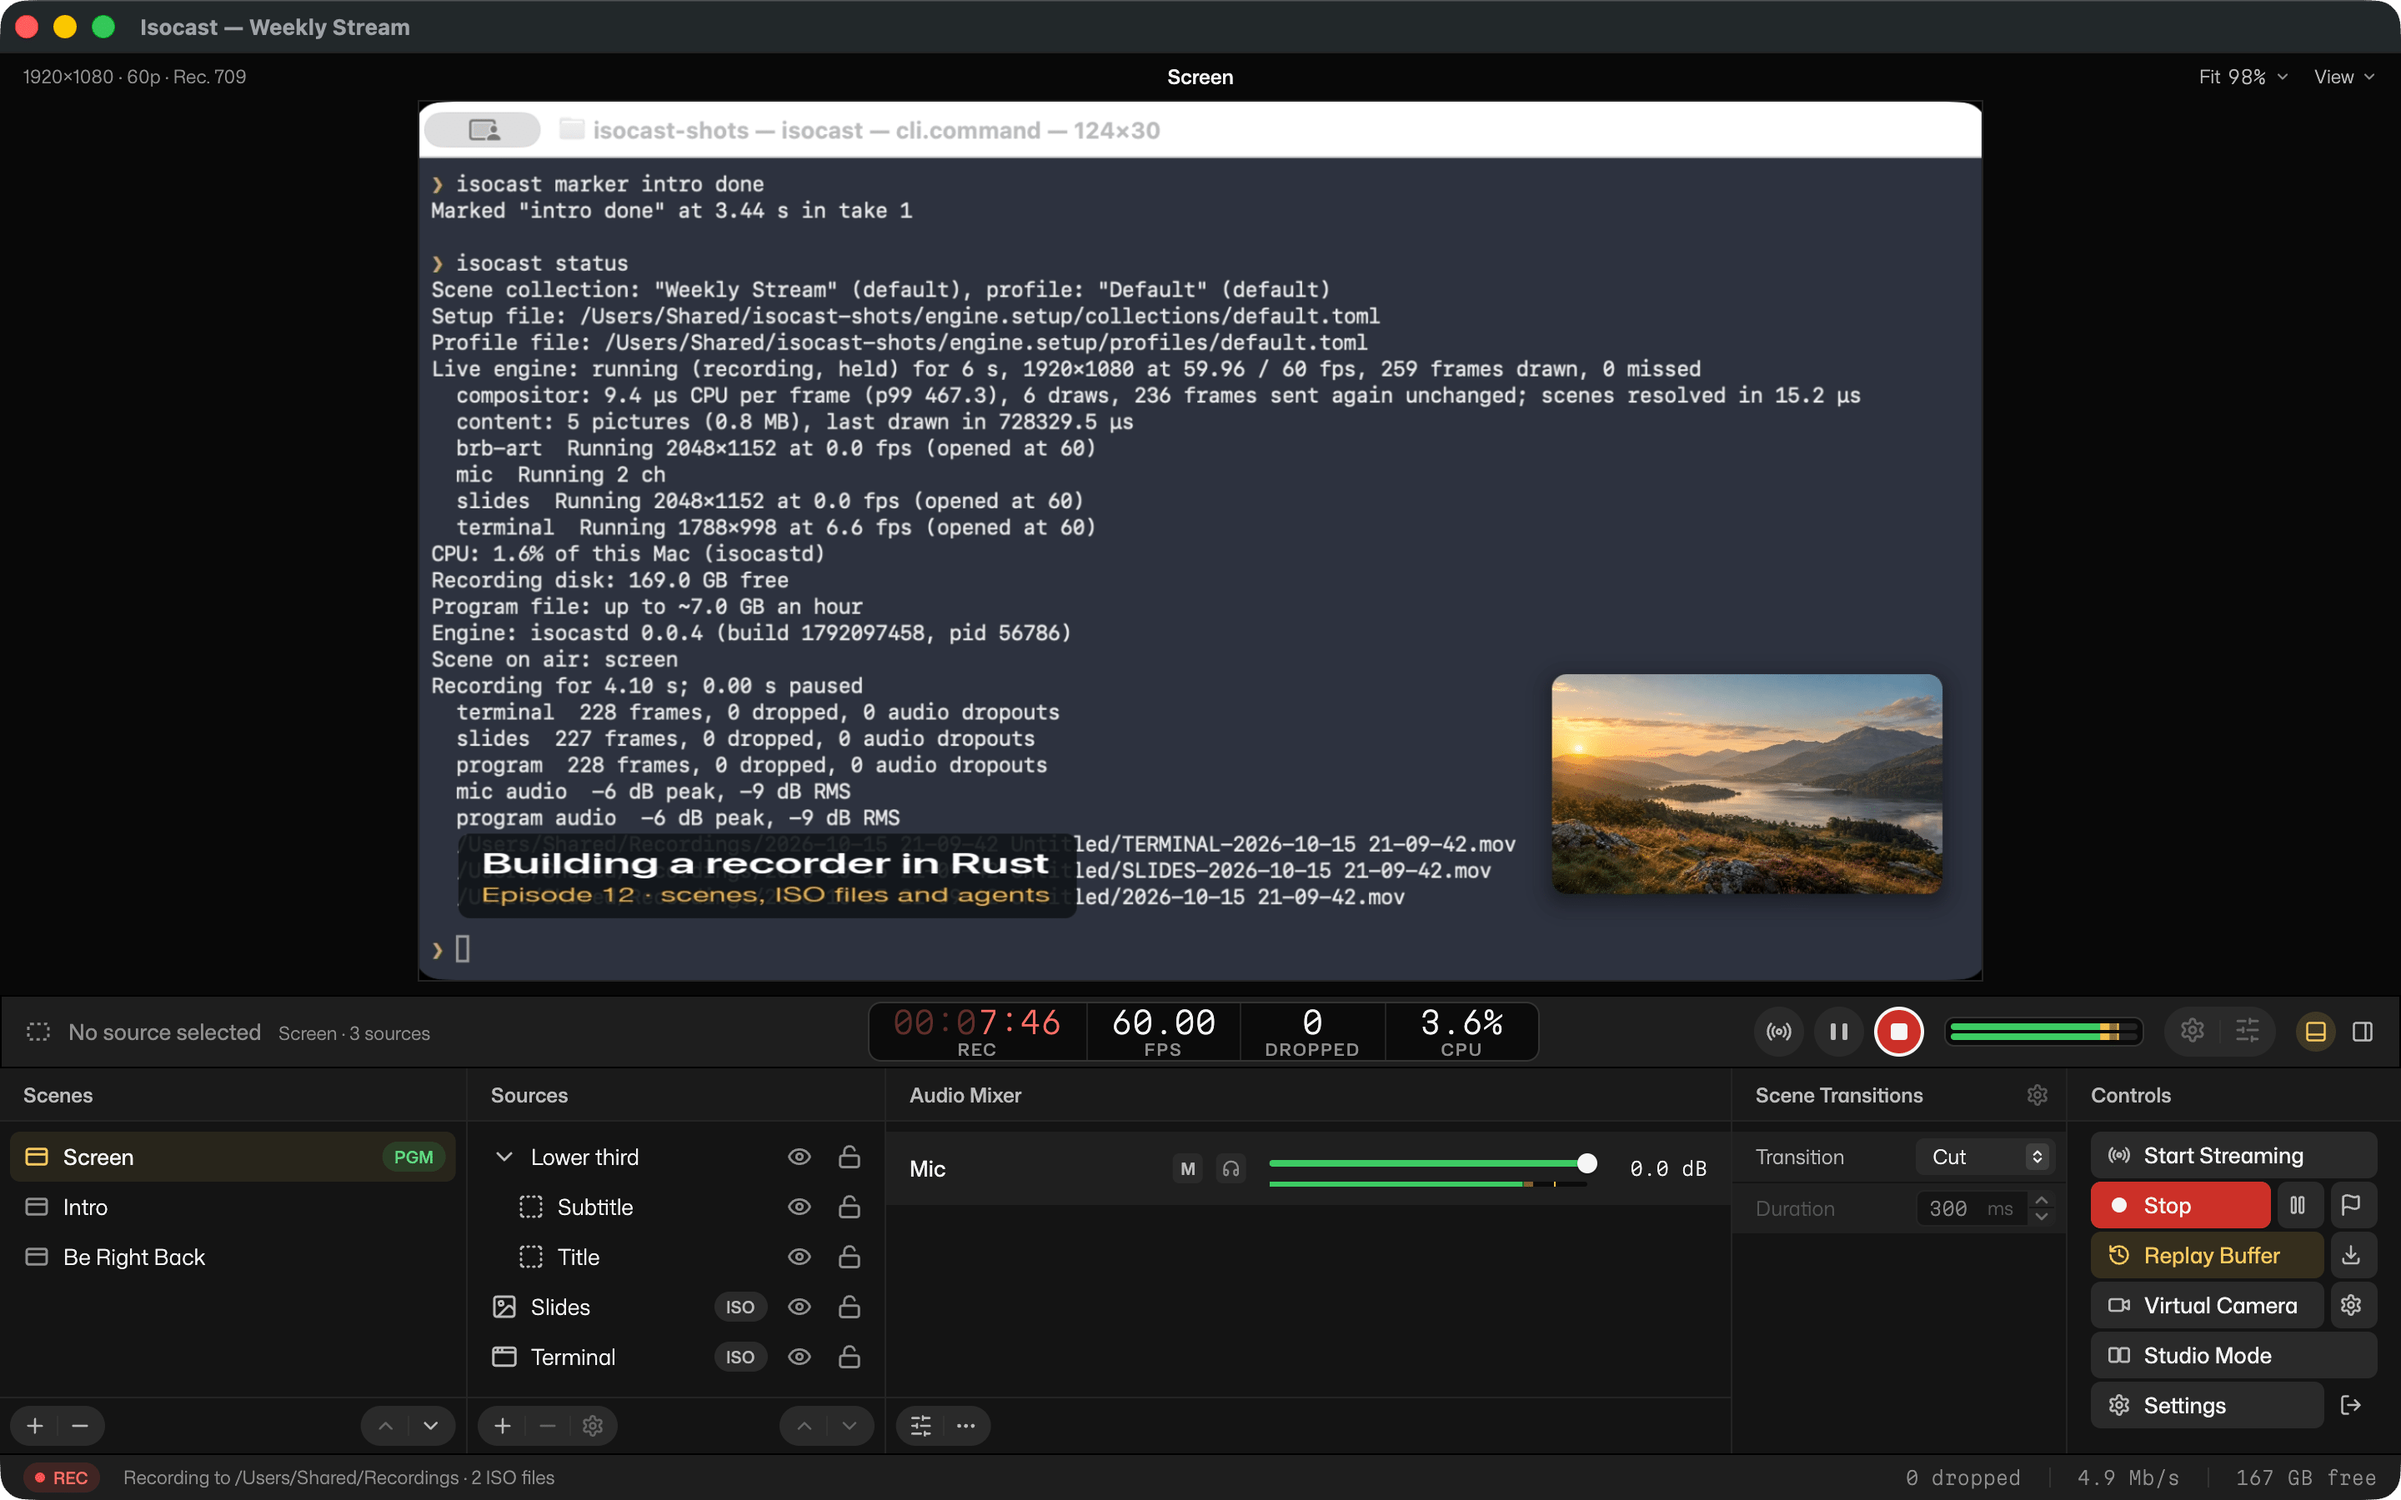
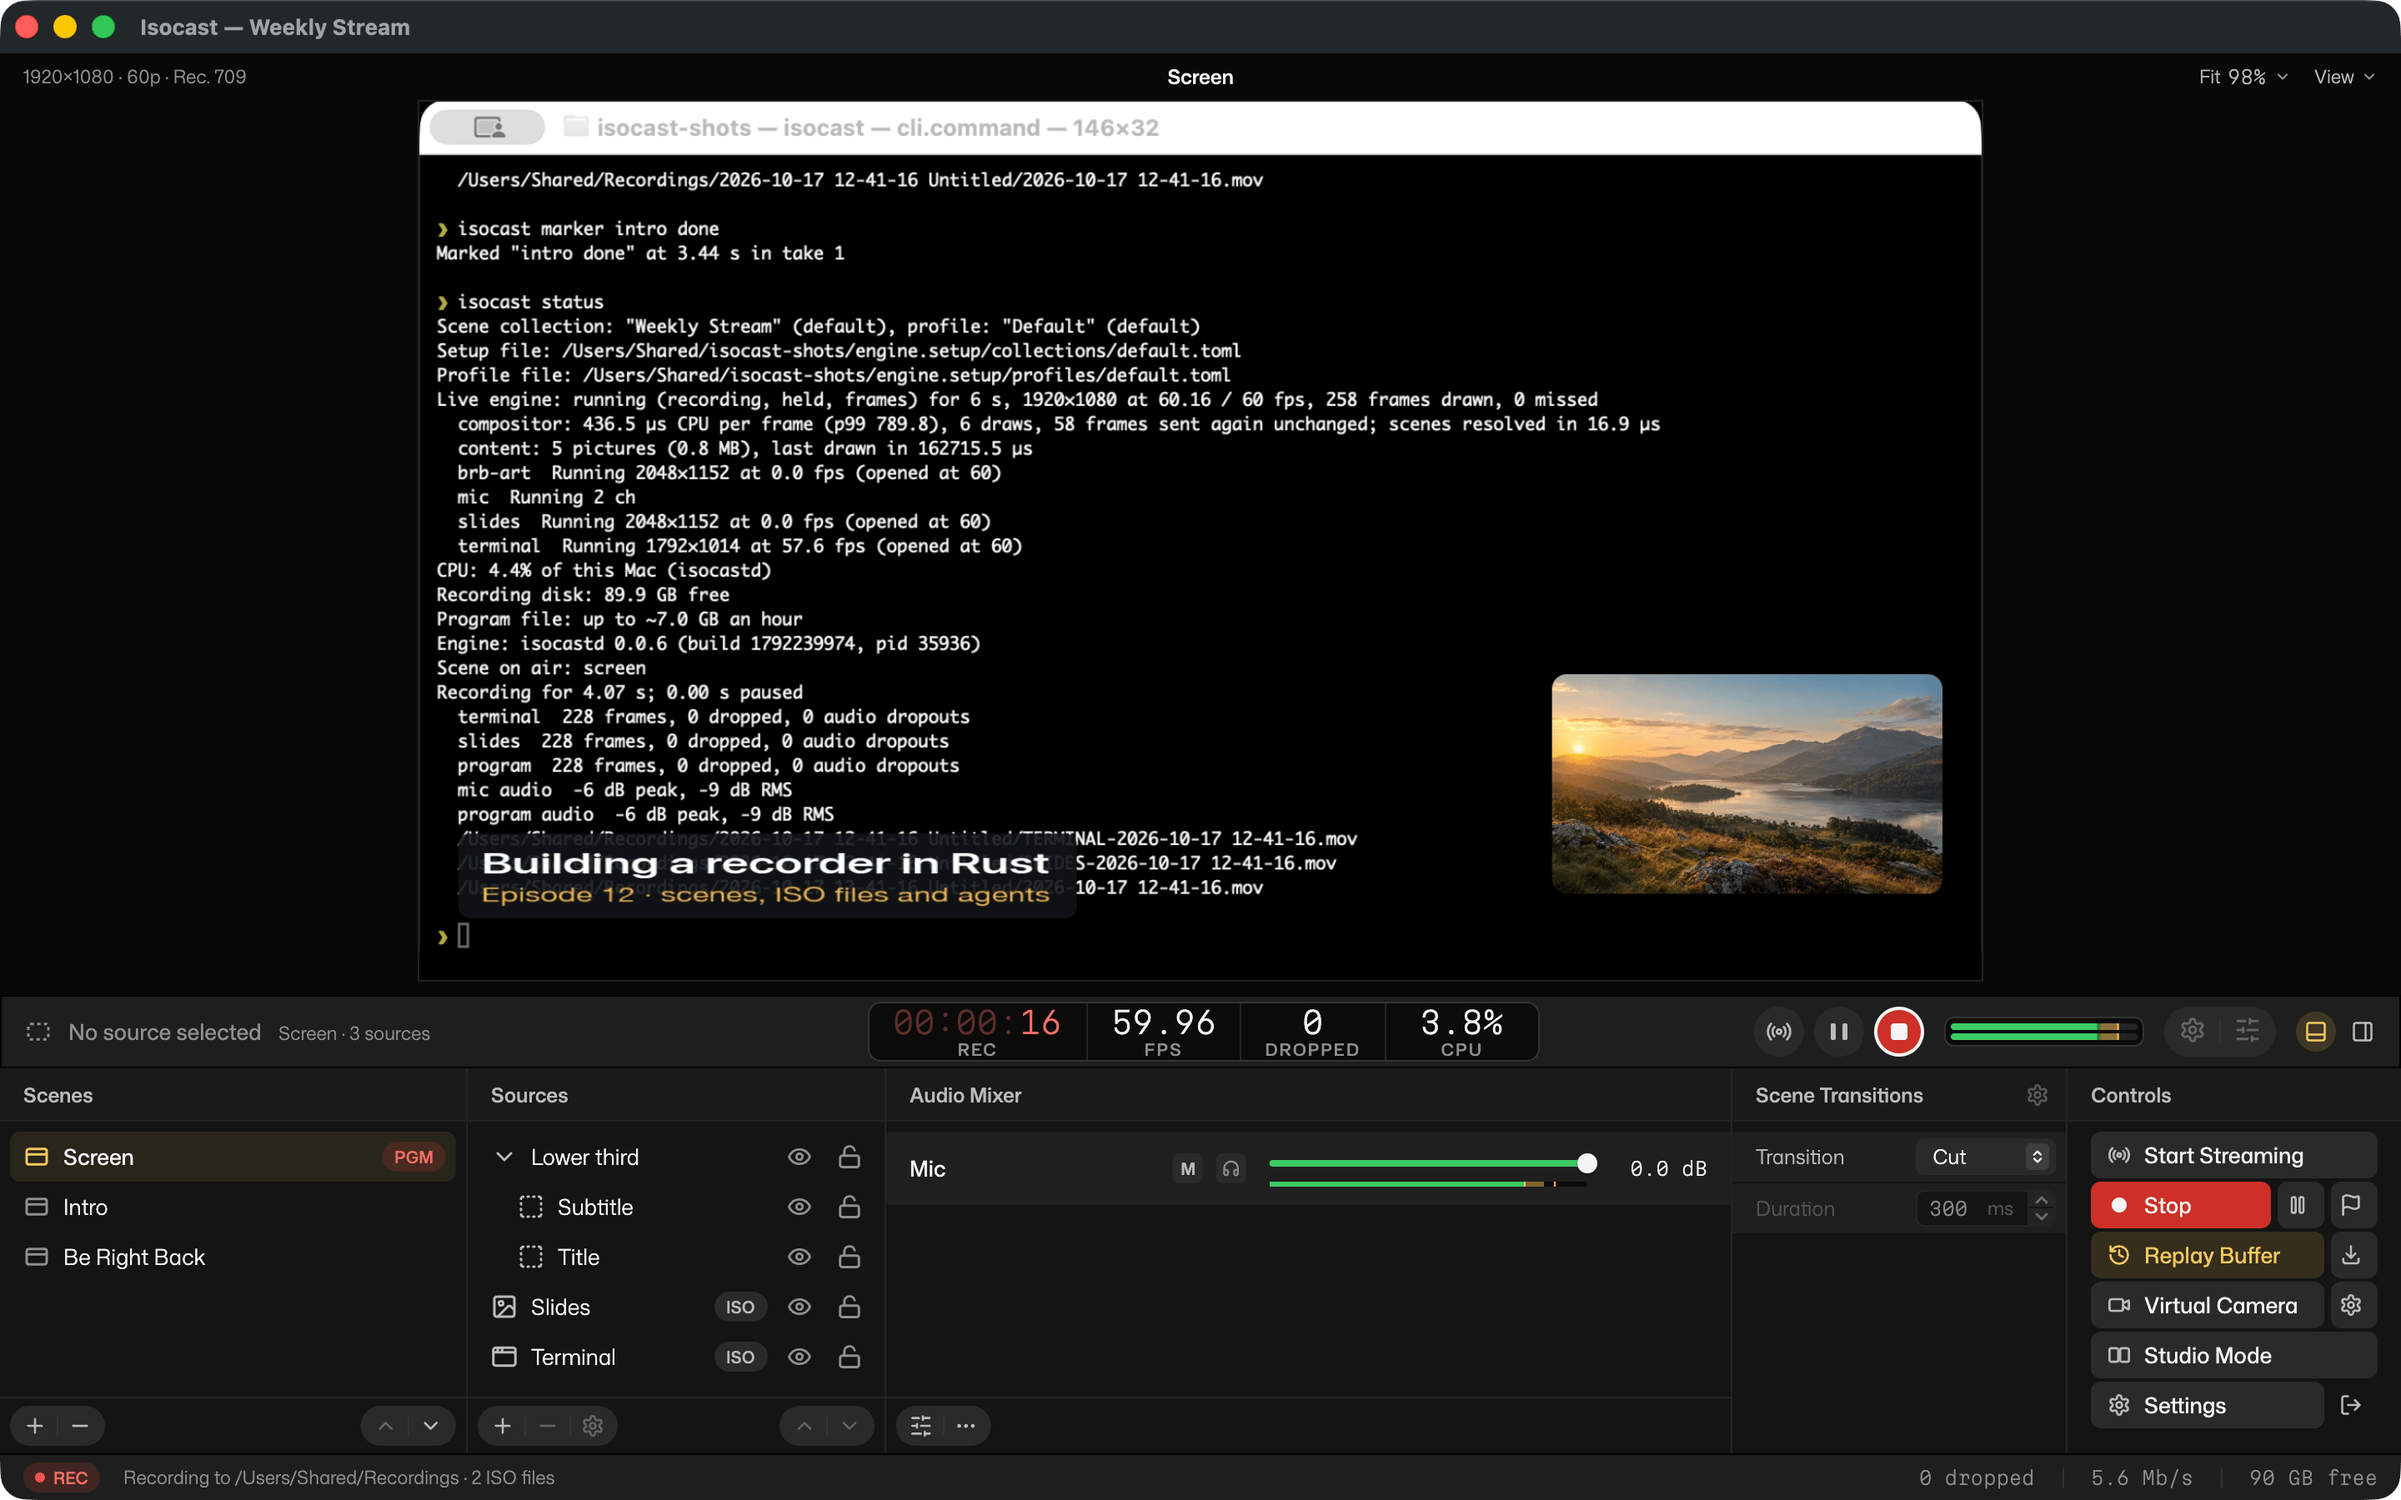
README 0.0.6

diff --git a/README.md b/README.md
@@ -26,8 +26,10 @@ in Rust, MIT or Apache 2.0.
   where OBS used 58–71%, and 88–356 MiB of memory where OBS used
   619–1344 MiB ([how it was measured](docs/benchmarks.md)).
 - **Edit what you recorded.** The editor window lays every ISO file out
-  on one timeline: trim, split and switch angles, then export
-  frame-accurately without re-encoding what you didn't cut.
+  on one timeline: trim, split, switch angles and crop (9:16 too), then
+  export frame-accurately without re-encoding what you didn't change.
+  Each project folder carries an `.isoprj` that reopens your edits
+  anywhere.
 - **Bring your OBS setup.** On first launch Isocast finds your OBS scene
   collections and profiles and imports them; anything that can't come
   over is listed with the reason. Tools that speak obs-websocket (Touch
@@ -46,20 +48,21 @@ in Rust, MIT or Apache 2.0.
 | Each source as its own file (ISO), on one clock | Built in | Not built in (third-party Source Record plugin) |
 | CPU for the same recording ([benchmarks](docs/benchmarks.md)) | About half of OBS's | Baseline |
 | Memory, 1080p60 on a base M2 | 88 MiB | 630 MiB |
-| Edit the ISO files after recording | Built-in editor: trim, split, angles | No, use another editor |
+| Edit the ISO files after recording | Built-in editor: trim, split, angles, crop | No, use another editor |
 | Control | App, `isocast` CLI, MCP, and obs-websocket v5 (off by default) | App, obs-websocket and scripts |
 | Stream Deck | Through obs-websocket (community plugins, Touch Portal); not Elgato's official OBS actions | Official Elgato plugin |
 | Replay buffer | Yes | Yes |
-| Virtual camera | Yes, new in 0.0.5 | Yes, mature |
+| Virtual camera | Yes | Yes, mature |
 | Several stream destinations at once | Built in (RTMP/RTMPS) | Third-party plugin |
 | Per-app audio | Yes (macOS 14.2+) | Yes |
 | Plugins | Early ([process plugins, WebAssembly audio filters](docs/plugins.md)); no OBS plugins | Large ecosystem |
-| Projectors, multiview, second canvas | Not yet | Yes |
+| Projectors and multiview | Yes, new in 0.0.6 | Yes |
+| Vertical (9:16) canvas alongside the main one | Built in, new in 0.0.6 | Third-party plugin (Aitum Vertical) |
 | Track record | New, in alpha | Years of polish |
 
 OBS is the better choice today if you need Windows or Linux, a specific
-OBS plugin, projectors or multiview, Elgato's official Stream Deck
-actions, or years of proven polish. Isocast is for Mac users who want
+OBS plugin, Elgato's official Stream Deck actions, or years of proven
+polish. Isocast is for Mac users who want
 separate files per source, a lighter app, or a recorder they can script.
 
 ![Isocast compared with OBS 32.2.2: less CPU, less memory, faster stop and launch, and no skipped frames on a base M2](docs/images/benchmark.png)
@@ -72,7 +75,7 @@ Synthetic sources, not real capture: see [docs/benchmarks.md](docs/benchmarks.md
 
 ## Features
 
-**In Isocast 0.0.5 (the current download):**
+**In Isocast 0.0.6 (the current download):**
 
 - Scenes and sources: screens, windows, cameras, microphones, desktop
   audio, one app's audio or everything but some apps (macOS 14.2+),
@@ -90,8 +93,23 @@ Synthetic sources, not real capture: see [docs/benchmarks.md](docs/benchmarks.md
   loses about 0.5 s, and they are repaired on the next launch. Pause and
   resume in the same file, and markers.
 - The editor window (**Window › Editor**, ⌘E): every ISO track of your
-  takes on one timeline, with trim, split, ripple delete, per-span
-  angles, undo and frame-accurate export. The takes are never changed.
+  takes on one timeline, with trim, split, ripple delete, rolls, per-span
+  angles, crops (free, 16:9, 9:16, 1:1, 4:5), waveforms, snapping, zoom,
+  undo and frame-accurate export (a 9:16 file too). The takes are never
+  changed. **Open Editor After Recording** in Settings › Output opens it
+  when you stop.
+- Project files: every project folder has a `<name>.isoprj` with its takes
+  and edits. Copy the folder anywhere and double-click the file to reopen
+  it in the editor; File › Open and Open Recent.
+- **Projectors and multiview:** the program, preview, any scene or any
+  source full screen on another display or in a window, and an OBS-style
+  multiview with tally (red program, green preview).
+- **Vertical canvas:** a second 9:16 canvas with its own layouts of the
+  same sources, recorded and streamed alongside the main one, following
+  the main canvas's scenes or switching on its own.
+- Audio interfaces: pick a microphone source's inputs (one input records
+  as centred mono at full level) and a Mono switch per source. Interfaces
+  with more than two inputs record inputs 1 + 2 by default.
 - **Replay buffer:** keep the last 5–300 seconds of the program in memory
   and save them with a click or a hotkey.
 - **Virtual camera:** the program as a camera for Zoom, Meet, FaceTime
@@ -109,18 +127,18 @@ Synthetic sources, not real capture: see [docs/benchmarks.md](docs/benchmarks.md
 - Profiles and scene collections, as in OBS, global hotkeys, timelines
   (record takes in order, export one video), the `isocast` CLI and MCP
   tools for agents.
+- A warning when another app or a busy or hot Mac threatens the
+  recording, before frames drop.
 - Automatic updates. macOS prompts name the engine "Isocast Engine".
 
 **Coming next** (not in a release yet; see [coming soon](docs/coming.md)):
 
-- Steadier under heavy load: an engine hardening pass, one GPU device per
-  app, a stream that starts cleanly on a busy Mac, and more performance
-  work against OBS.
-- Fixes from the 0.0.5 follow-ups: plugins, streaming, the virtual camera,
-  developer mode and updates.
+- More performance work against OBS: one GPU device per app, a lighter
+  multiview, and tighter memory budgets.
+- Fixes from the 0.0.6 follow-ups: the vertical canvas (replay, virtual
+  camera), the editor (audio while playing, NLE checks) and project files.
 - Later ideas: running real OBS plugins in a helper process, Elgato
-  Stream Deck's own protocol, projectors and multiview, a second
-  (vertical) canvas, shader filters and WebAssembly sources.
+  Stream Deck's own protocol, shader filters and WebAssembly sources.
 
 ## A closer look
 
@@ -132,13 +150,23 @@ per source and the session file that lines them up.
 **Studio Mode.** Line up the next scene in the preview while the program
 stays on air, then take it live with a cut, a fade or a stinger.
 
-![Studio Mode while recording: the Starting soon intro in preview on the left, the live Screen scene in the program on the right, and the Transition button with Cut, Fade and Fade to Black between them](docs/images/studio.png)
+![Studio Mode while recording: the Starting soon intro in preview on the left, the live Screen scene in the program on the right, the Transition button with Cut, Fade and Fade to Black between them, and in the scene list a red PGM tag on Screen and a green PVW tag on Intro](docs/images/studio.png)
+
+**Multiview.** The preview, the program and every scene in one window,
+with a red tally on what's on air and green on what's next.
+
+![The Multiview window: the Intro scene in preview with a green border and the live Screen scene in the program with a red border across the top, and below them tiles for the Screen, Intro and Be Right Back scenes, Screen outlined in red and Intro in green](docs/images/multiview.png)
+
+**A vertical canvas beside the main one.** The same sources laid out for
+9:16, recorded and streamed alongside the main canvas.
+
+![The main window with the Screen scene in its 16:9 monitor and, to its right, the Vertical monitor showing the same scene arranged at 1080×1920: the terminal on top, the landscape photo below it and the lower-third title over the photo](docs/images/vertical.png)
 
 **Edit every angle.** The editor window shows a track per ISO source
-under the program; trim, split, pick the angle for each stretch and
-export.
+under the program; trim, split, pick the angle for each stretch, crop it
+(9:16 too) and export.
 
-![The Isocast Editor window: a viewer showing the chosen angle at the playhead above a timeline with the Program track and one track per ISO source, the Split, Delete, Undo, Redo and Export buttons, and highlighted spans where another angle is used](docs/images/editor.png)
+![The Isocast Editor in crop mode: the Slides angle at the playhead with a 9:16 crop frame and its handles over the landscape photo, the Free, 16:9, 9:16, 1:1 and 4:5 presets, Reset and Done above it, and below a timeline with three takes on the Program track over the Camera and Slides tracks, the cropped Slides stretch outlined](docs/images/editor.png)
 
 **Choose what gets its own file** in Settings › Output.
 

diff --git a/docs/notes.md b/docs/notes.md
@@ -7810,6 +7810,19 @@ each section. Delete entries that stop being true.
   scripts/snapshot.sh: `ISOCAST_OBS_FOLDER=… --state wizard-first-launch`,
   and `--state wizard:goal --state wizard-sample:OPTIMIZED.json` (the
   sample needs the wizard open first).
+- 2026-10-17 (README 0.0.6): shoot.sh now also takes multiview.png (top-8
+  projector window over the app, Studio Mode on, so it has both tallies)
+  and vertical.png (a [vertical] canvas patched in with the Screen scene
+  arranged for 9:16, removed again). The vertical canvas is added only
+  after the take stops: apply refuses it while recording
+  (`vertical.follow_main: change scene linking once the recording stops`).
+  Taken through `hw-batch.py now cmd --gui --mac m2-b --bin-dir …` after
+  copying scripts/screenshots/* to m2-b's ~/isocast-scratch/docs-shots, with
+  a no-op `cargo` first on PATH so ui-dev.sh bundles the pushed isocast-ui
+  instead of building on the test Mac; then take.sh's trim and quantize
+  step by hand. The Terminal window opened fine on m2-b (#85 was m2-a).
+  editor.png stays offscreen (snapshot.sh: three takes, `editor`,
+  `create-angle:slides`, `create-crop:9:16`, `create-crop-mode:on`, 1000x625@2).
 
 ## Verification recipes
 
